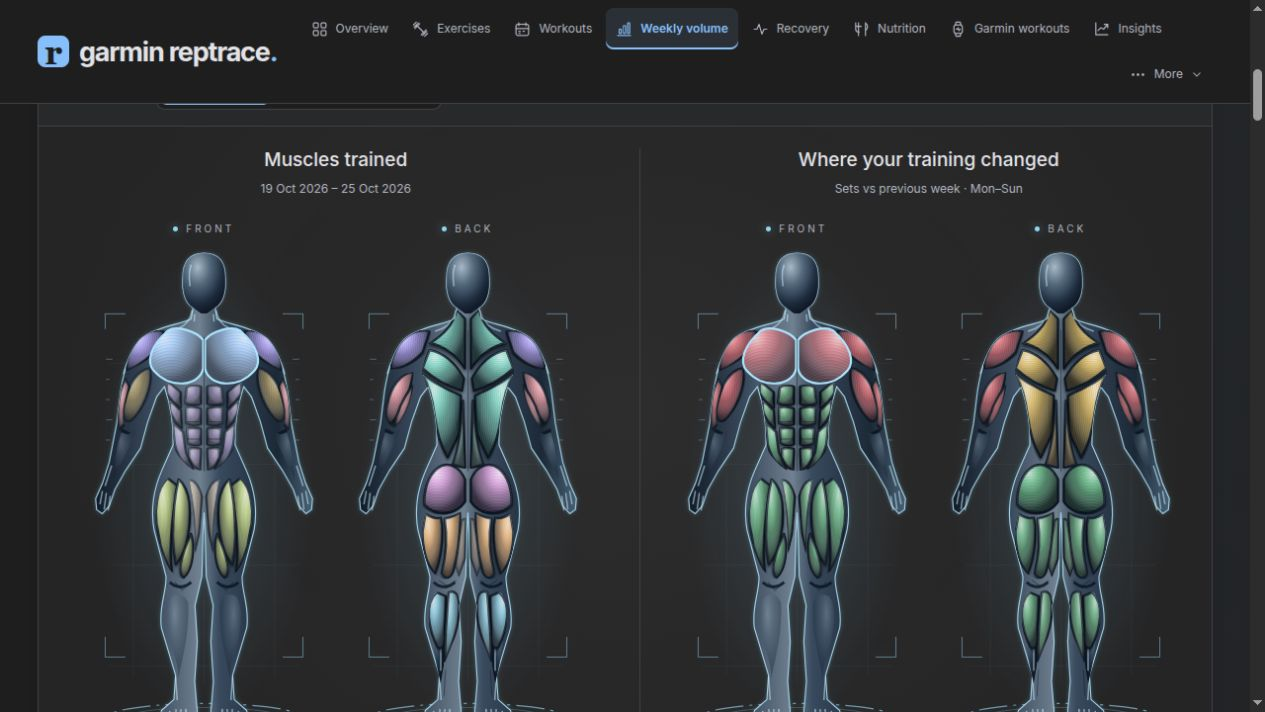
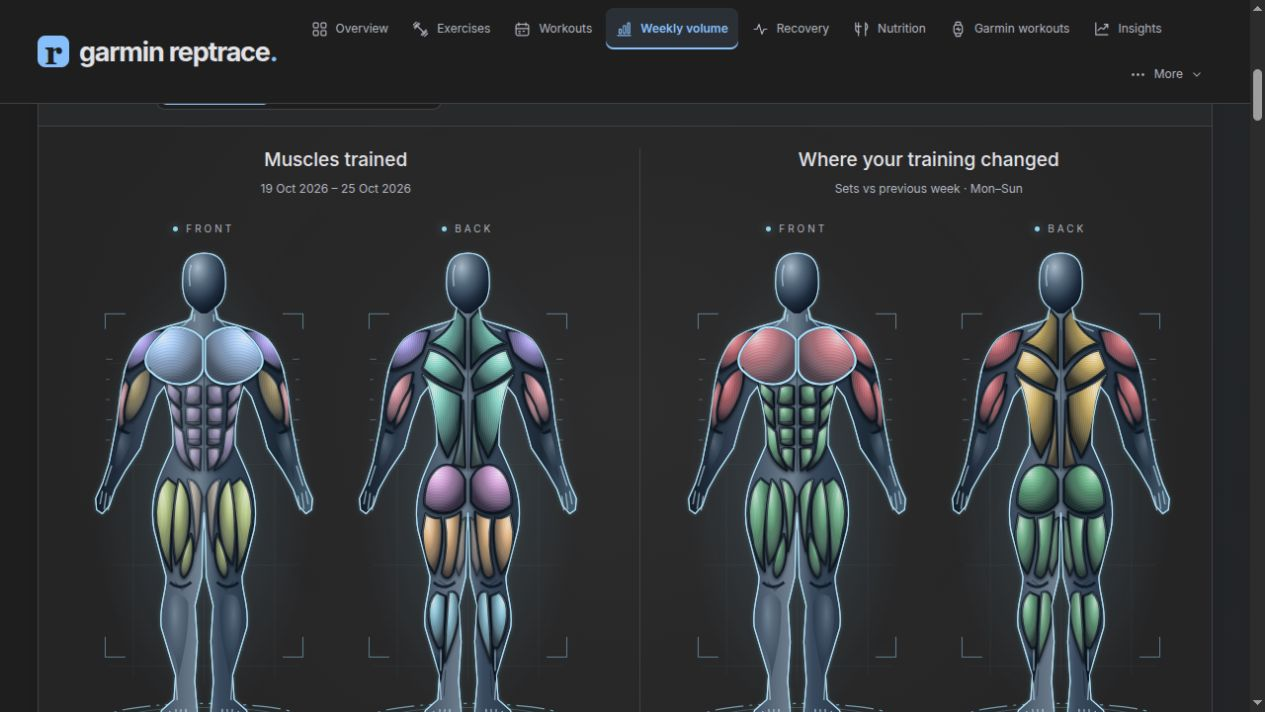
Bound muscle expansion and highlights to the body silhouette

diff --git a/src/reptrace/web/static/styles.css b/src/reptrace/web/static/styles.css
@@ -703,3 +703,7 @@ summary:focus-visible,textarea:focus-visible{outline:3px solid var(--syntax-nav,
 .recovery-review-body{padding:8px 30px 20px}.recovery-review-body h3{font-size:15px;margin-top:24px}.operation-preview{white-space:pre-wrap;overflow-wrap:anywhere;font-family:inherit;font-size:13px;line-height:1.7;background:var(--paper);border:1px solid var(--line);border-radius:9px;padding:16px;max-height:40vh;overflow:auto}
 .recovery-review .dialog-footer{background:var(--white);gap:12px;flex-wrap:wrap}.recovery-review .dialog-heading h2{overflow-wrap:anywhere}
 @media(max-width:760px){.operations-list{grid-template-columns:1fr;padding:0 16px 16px}.operation-card{padding:16px}.recovery-review-body{padding:8px 20px 16px}.recovery-review .dialog-footer .button{flex:1}}
+
+/* Keep the fixed body edge visible above expanding, body-clipped muscles. */
+.body-map-svg .body-containment-outline{fill:none;stroke:#a6e7fc;stroke-width:1.1;stroke-opacity:.85;pointer-events:none;filter:none}
+[data-theme="daylight"] .body-map-svg .body-containment-outline{stroke:#477184}
